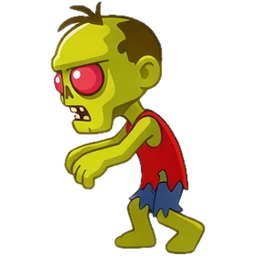
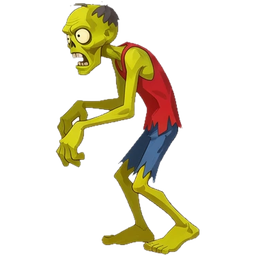
Zombie Bomber: new first-four zombies, soldier and base art
- First four zombies redrawn to match the later eight.
- 8 soldier looks, one per Soldiers level; soldiers stand in two rows
  in front of the base.
- 4 base stages that grow with the Base upgrade, cut at their true
  relative sizes; zombies now hit the base at its front.
- Shop cards show the soldier and base you're about to buy.
- tools/cut_flood.py now also removes enclosed gaps (between legs and
  arms, inside windows, between planks) and has a native-size option.
- Prompt for matching shooting effects (projectile + muzzle flash per
  soldier).

Claude-Session: https://claude.ai/code/session_014gobheM9XG1GV5X2tuF5zD

diff --git a/bomber/bomber.js b/bomber/bomber.js
@@ -20,10 +20,11 @@ const IMPACT_Y = GROUND_Y + 22;
 const PHASE_BAR = { y: 350, h: 28 };
 const BAY = { x: 12, y: 384, w: 426, h: 406 };
 const BAY_LINE = 70;             // overflow line, in bay coordinates
-const BASE_X = 48;               // zombies reaching this x hit your base
-// Where soldiers stand: on the tower, then along the sandbags
-const SOLDIER_SPOTS = [{ x: 26, y: GROUND_Y - 74 }, { x: 40, y: LANE_BOTTOM - 22 }, { x: 22, y: LANE_BOTTOM - 22 },
-    { x: 52, y: LANE_BOTTOM - 6 }, { x: 14, y: LANE_BOTTOM - 4 }];
+const BASE_X = 96;               // zombies reaching this x hit your base
+const BASE_ART_SCALE = 0.42;     // base art is drawn at this many canvas px per sheet px (keeps the stages' relative sizes)
+// Where soldiers stand: on the ground in front of the base, back and front rows
+const SOLDIER_SPOTS = [{ x: 92, y: LANE_BOTTOM }, { x: 79, y: LANE_TOP + 12 }, { x: 66, y: LANE_BOTTOM },
+    { x: 53, y: LANE_TOP + 12 }, { x: 40, y: LANE_BOTTOM }];
 const SOLDIER_RANGE = 220;
 const COIN_HUD = { x: 150, y: 30 };   // where dropped coins fly to
 
@@ -76,9 +77,12 @@ const BULLET_SPRITES = ['rifle', 'tracer', 'heavy', 'plasma'].map((n, i) => `../
 const UI_SPRITES = ['btn_green_long', 'btn_sound_on', 'btn_sound_off', 'btn_city', 'btn_play', 'ribbon',
     'icon_gift', 'icon_star', 'icon_heart', 'icon_zombie', 'icon_bomb', 'icon_trophy', 'icon_coin', 'panel', 'btn_purple_long'];
 const PLANE_SPRITE = '../assets/bomber/plane.png';
-// Soldier art, one image per Soldiers upgrade level (8). Empty until the sheet exists; drawn in code meanwhile.
-const SOLDIER_SPRITES = [];
-// Drawn soldiers until then: each upgrade level gets its own colors and a longer gun
+// Soldier art, one image per Soldiers upgrade level (cut from assets/bomber/soldiers/source_sheet.webp)
+const SOLDIER_SPRITES = ['recruit', 'rifleman', 'grenadier', 'machine_gunner', 'sniper', 'flamethrower', 'heavy_gunner', 'elite']
+    .map((n, i) => `../assets/bomber/soldiers/0${i + 1}_${n}.png`);
+// Base art, one image per stage (2 Base upgrade levels per stage), tight-cropped at sheet resolution
+const BASE_SPRITES = ['outpost', 'bunker', 'fort', 'fortress'].map((n, i) => `../assets/bomber/base/0${i + 1}_${n}.png`);
+// Drawn soldiers if the art can't load: each upgrade level gets its own colors and a longer gun
 const SOLDIER_LOOKS = [
     { body: '#7a8f4a', helmet: '#5b6e33', gun: 9,  gunColor: '#2d3436' },
     { body: '#5a7d3a', helmet: '#4b6b2f', gun: 13, gunColor: '#2d3436' },
@@ -155,7 +159,7 @@ function stats(up = save.up) {
         fireRate: 1 + 0.12 * (up.weapons - 1),
         bulletTier: Math.min(3, Math.floor((up.weapons - 1) / 2)),     // rifle, tracer, heavy, plasma
         baseHp: 10 + 8 * (up.base - 1),
-        baseStage: Math.min(3, Math.floor((up.base - 1) / 2)),          // for the 4-stage base art, once it exists
+        baseStage: Math.min(3, Math.floor((up.base - 1) / 2)),          // which base art to draw
         dropMin: Math.floor((up.bombs - 1) / 3),                        // smallest bomb you drop
         blastMul: 1 + 0.08 * (up.bombs - 1)
     };
@@ -200,6 +204,7 @@ const zombieImgs = Object.fromEntries(Object.entries(ZOMBIE_SPRITES).map(([k, sr
 const planeImg = loadImages([PLANE_SPRITE])[0];
 const bulletImgs = loadImages(BULLET_SPRITES);
 const soldierImgs = loadImages(SOLDIER_SPRITES);
+const baseImgs = loadImages(BASE_SPRITES);
 const uiImgs = Object.fromEntries(UI_SPRITES.map(n => [n, loadImages([`../assets/bomber/ui/${n}.png`])[0]]));
 // Draw a UI image fitted (keeping its shape) into a box centred on (cx, cy); returns false if not loaded
 function drawUi(name, cx, cy, w, h) {
@@ -553,7 +558,7 @@ function soldierShoot(s, target) {
     s.recoil = 1;
     s.aim = Math.atan2(target.y - 22 * target.type.size - s.y, target.x - s.x);
     const st = stats();
-    bullets.push({ x: s.x + 12, y: s.y - 16, target, dmg: 0.5 * st.soldierDmg * levelHpMul(level), tier: st.bulletTier, dy: rand(-6, 6) });
+    bullets.push({ x: s.x + 15, y: s.y - 29, target, dmg: 0.5 * st.soldierDmg * levelHpMul(level), tier: st.bulletTier, dy: rand(-6, 6) });
     Sound.shot();
 }
 
@@ -797,7 +802,17 @@ function drawDrawnBackground() {
 function drawBase() {
     ctx.save();
     if (baseFlash > 0) ctx.translate(rand(-2, 2), 0);
-    // watchtower
+    const img = baseImgs[stats().baseStage];
+    if (imgReady(img)) {
+        const w = img.naturalWidth * BASE_ART_SCALE, h = img.naturalHeight * BASE_ART_SCALE;
+        if (baseFlash > 0) ctx.filter = 'brightness(1.8) saturate(0.6)';
+        ctx.drawImage(img, -4, LANE_BOTTOM + 4 - h, w, h);
+        ctx.filter = 'none';
+        for (const s of soldiers) drawSoldier(s);
+        ctx.restore();
+        return;
+    }
+    // watchtower (drawn if the base art can't load)
     ctx.fillStyle = '#5d4037'; ctx.fillRect(12, GROUND_Y - 62, 6, 64); ctx.fillRect(34, GROUND_Y - 62, 6, 64);
     ctx.fillStyle = '#795548'; rrect(6, GROUND_Y - 74, 40, 16, 3); ctx.fill();
     ctx.strokeStyle = '#4e342e'; ctx.lineWidth = 2; ctx.beginPath();
@@ -819,7 +834,7 @@ function drawBase() {
     ctx.restore();
 }
 
-function drawSoldier(s, scale = 1.35) {
+function drawSoldier(s, scale = 1.25) {
     const look = SOLDIER_LOOKS[s.look || 0];
     ctx.save();
     ctx.translate(s.x - s.recoil * 2, s.y);
@@ -828,7 +843,7 @@ function drawSoldier(s, scale = 1.35) {
     if (imgReady(img)) {
         const h = 34, w = h * img.naturalWidth / img.naturalHeight;
         ctx.drawImage(img, -w / 2, -h, w, h);
-        if (s.recoil > 0.6) { ctx.fillStyle = '#fff3a0'; circle(w / 2, -h * 0.55, 3 * s.recoil); ctx.fill(); }
+        if (s.recoil > 0.6) { ctx.fillStyle = '#fff3a0'; circle(w * 0.36, -h * 0.68, 3 * s.recoil); ctx.fill(); }
         ctx.restore();
         return;
     }
@@ -1133,17 +1148,23 @@ function drawShop() {
         if (afford) { ctx.strokeStyle = `rgba(123, 237, 159, ${0.5 + 0.4 * Math.sin(time * 5)})`; ctx.lineWidth = 3; rrect(c.x + 2, c.y + 2, c.w - 4, c.h - 4, 14); ctx.stroke(); }
         // picture of what you're upgrading
         const px = c.x + c.w / 2, py = c.y + 50;
+        const nextSt = maxed ? st : stats({ ...save.up, [c.key]: lv + 1 });   // cards show what you're buying
         if (c.key === 'soldiers') {
-            ctx.save(); ctx.translate(px - 6, py + 26); ctx.scale(2.1, 2.1);
-            drawSoldier({ x: 0, y: 0, recoil: 0, aim: 0, look: st.soldierLook }, 1);
+            ctx.save(); ctx.translate(px - 8, py + 28); ctx.scale(2.1, 2.1);
+            drawSoldier({ x: 0, y: 0, recoil: 0, aim: 0, look: nextSt.soldierLook }, 1);
             ctx.restore();
-            text(`x${st.soldiers}`, px + 40, py + 14, 18, '#fff');
+            text(`x${nextSt.soldiers}`, px + 46, py + 16, 18, '#fff');
         } else if (c.key === 'weapons') {
             const img = bulletImgs[st.bulletTier];
             if (imgReady(img)) { const w = 84, h = w * img.naturalHeight / img.naturalWidth; ctx.drawImage(img, px - w / 2, py - h / 2, w, h); }
         } else if (c.key === 'base') {
-            drawUi('icon_heart', px, py - 4, 54, 54);
-            text(`${st.baseHp}`, px, py - 2, 18, '#fff');
+            const img = baseImgs[nextSt.baseStage];
+            if (imgReady(img)) {
+                const k = Math.min(110 / img.naturalWidth, 66 / img.naturalHeight);
+                ctx.drawImage(img, px - 10 - img.naturalWidth * k / 2, py + 28 - img.naturalHeight * k, img.naturalWidth * k, img.naturalHeight * k);
+            }
+            drawUi('icon_heart', px + 54, py - 14, 30, 30);
+            text(`${nextSt.baseHp}`, px + 54, py - 13, 12, '#fff');
         } else {
             drawBomb(px, py + 2, 30, Math.min(BOMBS.length - 1, st.dropMin + 2), 0);
         }

diff --git a/tools/cut_flood.py b/tools/cut_flood.py
@@ -1,19 +1,30 @@
 # Cut the N biggest items from a sheet on a white background into 256x256 transparent PNGs.
-# Background = near-white pixels connected to the sheet's edge (so white highlights inside items stay).
+# Background = near-white pixels connected to the sheet's edge, plus enclosed near-white gaps (see HOLE_MIN).
 # The item edge is trimmed by a pixel and softened, so no light fringe from the background is left.
-# Usage: python3 tools/cut_flood.py sheet out_dir name1,name2,...   (items in reading order)
+# Usage: python3 tools/cut_flood.py sheet out_dir name1,name2,... [native]   (items in reading order)
+#   native: save each item tightly cropped at the sheet's own resolution (keeps relative sizes),
+#   instead of padded to a 256x256 square
 import sys
 import numpy as np
 from PIL import Image, ImageFilter
 from scipy import ndimage
 
 src, out, names = sys.argv[1], sys.argv[2], sys.argv[3].split(',')
+NATIVE = len(sys.argv) > 4 and sys.argv[4] == 'native'
 a = np.array(Image.open(src).convert('RGB'))
 ai = a.astype(int)
 light = (ai.min(axis=2) > 215) & ((ai.max(axis=2) - ai.min(axis=2)) < 35)
 lab, _ = ndimage.label(light)
 edge = set(np.unique(np.concatenate([lab[0], lab[-1], lab[:, 0], lab[:, -1]]))) - {0}
 obj = ~np.isin(lab, list(edge))
+# enclosed gaps (between legs, arm and body, inside windows, between planks): near-white areas
+# inside an item are background too. Small light bits (eyes, teeth, shine) stay.
+HOLE_MIN = 40   # pixels; enclosed white areas smaller than this are kept as detail
+white = (ai.min(axis=2) > 232) & ((ai.max(axis=2) - ai.min(axis=2)) < 25) & obj
+hl, hn = ndimage.label(white)
+if hn:
+    hsizes = ndimage.sum(white, hl, range(1, hn + 1))
+    obj &= ~np.isin(hl, [i + 1 for i in range(hn) if hsizes[i] >= HOLE_MIN])
 obj = ndimage.binary_opening(obj, iterations=1)          # drop specks of noise
 joined = ndimage.binary_dilation(obj, iterations=2)   # join sparkles to their item
 # items that touch in the sheet: split any piece much wider than the others at its thinnest column
@@ -48,6 +59,10 @@ for k, i in enumerate(keep):
     m = ndimage.binary_erosion(m, iterations=1)
     alpha = np.array(Image.fromarray(m.astype(np.uint8) * 255).filter(ImageFilter.GaussianBlur(0.7)))
     img = Image.fromarray(np.dstack([a, alpha]), 'RGBA').crop(Image.fromarray(alpha).getbbox())
+    if NATIVE:
+        img.save(f'{out}/{k + 1:02d}_{names[k]}.png', optimize=True)
+        print(k + 1, names[k], img.size)
+        continue
     s = max(img.size); sq = Image.new('RGBA', (s, s), (0, 0, 0, 0))
     sq.paste(img, ((s - img.width) // 2, (s - img.height) // 2))
     sq.resize((256, 256), Image.LANCZOS).save(f'{out}/{k + 1:02d}_{names[k]}.png', optimize=True)

diff --git a/bomber/ASSET_PROMPTS.md b/bomber/ASSET_PROMPTS.md
@@ -226,3 +226,27 @@ STYLE: fully colored and shaded, vibrant saturated colors, cute-creepy cartoon, 
 
 AVOID: chibi proportions, big heads, small bodies, glowing red eyes, glossy shine, thick soft outlines, black shapes, single-color shapes, blood, gore, text, background scenery, shadows on the background, items touching.
 ```
+
+## 13. Shooting effects (one per soldier, same style as the soldiers)
+
+Each soldier level fires its own projectile with its own muzzle flash, so buying a Soldiers level changes how they shoot too.
+
+```
+A sprite sheet of shooting effects for a mobile game, in a neat grid of 2 rows and 8 columns on a plain pure white background, every item separate with clear space around it, nothing touching. Top row: 8 projectiles flying to the RIGHT. Bottom row: the matching 8 muzzle flashes, each pointing to the RIGHT, directly under its projectile.
+
+STYLE (match exactly): flat cel-shaded 2D cartoon, like a Western TV cartoon or a classic flash game. One base color plus one darker hard-edged shade per area, no gradients, no glossy highlights, matte finish, thin even near-black outlines, saturated but slightly muted colors. Fire and energy are drawn as flat cartoon shapes with jagged edges, not soft glows.
+
+Projectiles (top row), each clearly stronger than the one before:
+1. Small brass pistol bullet with a short streak
+2. Brass rifle bullet with a longer streak
+3. Round green grenade with a small smoke puff behind it
+4. Bright orange machine-gun tracer streak
+5. Long thin sniper round with a white speed line
+6. Burst of orange and yellow cartoon flame
+7. Row of three chunky minigun bullets
+8. Blue energy bolt with jagged cartoon lightning edges
+
+Muzzle flashes (bottom row): matching star-shaped flashes, small yellow for the pistol, bigger and wider for each next weapon, a flame jet for the flamethrower, a blue electric flash for the energy rifle.
+
+AVOID: black shapes, soft glows, glossy shine, gradients, text, background, shadows on the background, items touching.
+```

diff --git a/README.md b/README.md
@@ -61,4 +61,4 @@ Zombies walk toward your base the whole time and soldiers on the base shoot at t
 
 **Upgrade shop.** Zombies drop coins. After each level the shop shows 4 upgrades: Soldiers (more soldiers, each level a new look), Weapons (damage, fire rate and new bullet art), Base (more HP) and Bombs (bigger bombs to drop, bigger blasts). Prices go up with each level. Your level, coins and upgrades are saved in the browser; losing retries the same level and keeps the coins.
 
-Art lives in `assets/bomber/`: bombs, all 12 zombies (`zombies/` for the first 4, `zombies2/` for the 8 later ones), soldier bullets, UI icons and buttons, the plane and two backgrounds (the 🌆 button switches between them and the original drawn one). Anything without art yet (soldiers, base) is drawn in code, and so is any image that can't load. Sheets are cut with `tools/cut_flood.py` (whole sheets) and `tools/cut_boxes.py` (named boxes). Bomb hitboxes are their sprite outlines (`bomber/shapes.js`, from `tools/make_shapes.py`); `tools/soft_glow.py` re-cuts glowing items like the Black Hole bomb with a soft halo. Asset prompts are in `bomber/ASSET_PROMPTS.md`.
+Art lives in `assets/bomber/`: bombs, all 12 zombies (`zombies/` for the first 4, `zombies2/` for the 8 later ones), soldier bullets, UI icons and buttons, the plane and two backgrounds (the 🌆 button switches between them and the original drawn one). Soldiers (8 looks) and the base (4 stages) follow the shop upgrades. Anything that can't load is drawn in code instead. Sheets are cut with `tools/cut_flood.py` (whole sheets; also removes enclosed gaps like between legs or inside windows; `native` keeps relative sizes) and `tools/cut_boxes.py` (named boxes). Bomb hitboxes are their sprite outlines (`bomber/shapes.js`, from `tools/make_shapes.py`); `tools/soft_glow.py` re-cuts glowing items like the Black Hole bomb with a soft halo. Asset prompts are in `bomber/ASSET_PROMPTS.md`.
